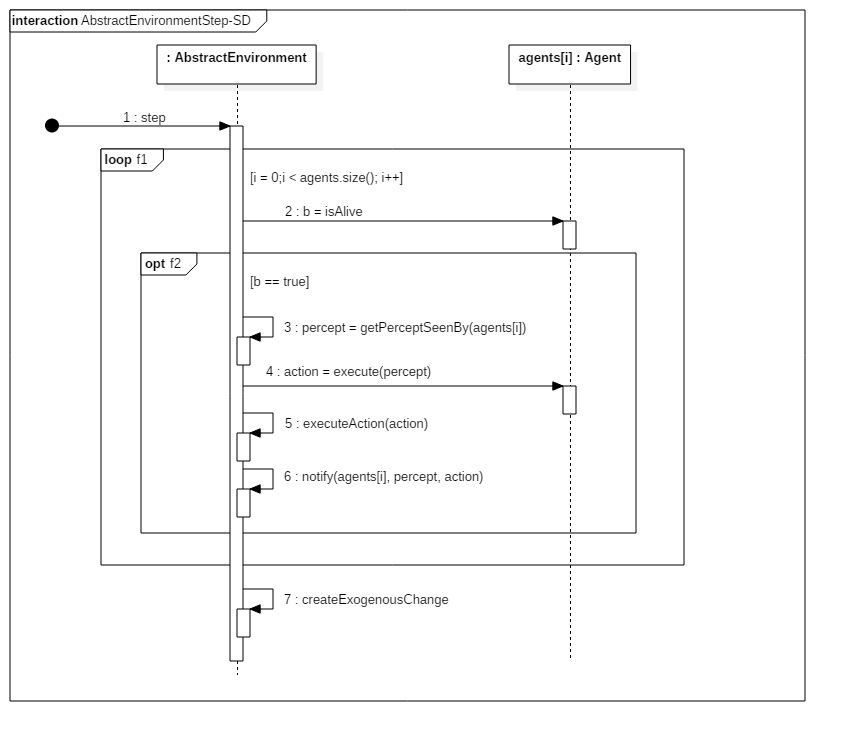
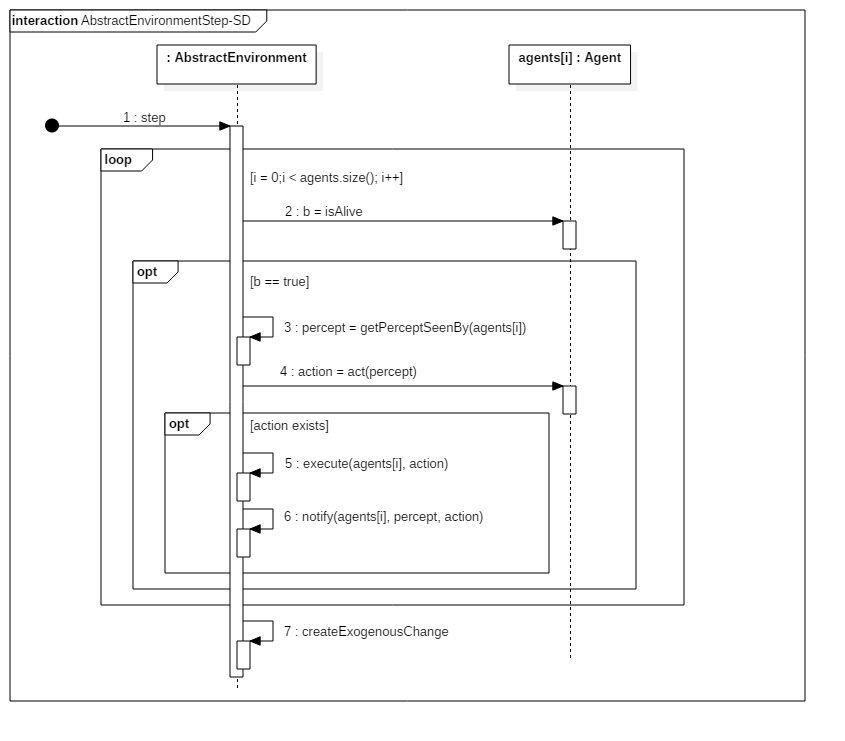
Agent framework methods renamed.

diff --git a/aima-core/src/main/java/aima/core/search/agent/NondeterministicSearchAgent.java b/aima-core/src/main/java/aima/core/search/agent/NondeterministicSearchAgent.java
@@ -2,7 +2,7 @@ package aima.core.search.agent;
 
 import aima.core.agent.Agent;
 import aima.core.agent.Notifier;
-import aima.core.agent.impl.AbstractAgent;
+import aima.core.agent.impl.SimpleAgent;
 import aima.core.search.nondeterministic.AndOrSearch;
 import aima.core.search.nondeterministic.NondeterministicProblem;
 import aima.core.search.nondeterministic.Plan;
@@ -21,7 +21,7 @@ import java.util.function.Function;
  * @author Ruediger Lunde
  * @author Andrew Brown
  */
-public class NondeterministicSearchAgent<P, S, A> extends AbstractAgent<P, A> {
+public class NondeterministicSearchAgent<P, S, A> extends SimpleAgent<P, A> {
 	/**
 	 * Maps percepts to states.
 	 */
@@ -36,18 +36,13 @@ public class NondeterministicSearchAgent<P, S, A> extends AbstractAgent<P, A> {
 		this.ptsFunction = ptsFn;
 	}
 
-	public NondeterministicSearchAgent(Function<P, S> ptsFn, Notifier notifier) {
-		this.ptsFunction = ptsFn;
-		this.notifier = notifier;
-	}
-
-	public NondeterministicSearchAgent(BiFunction<P, Agent, S> ptsFn) {
+	public NondeterministicSearchAgent(BiFunction<P, Agent<P, A>, S> ptsFn) {
 		this.ptsFunction = (percept) -> ptsFn.apply(percept, this);
 	}
 
-	public NondeterministicSearchAgent(BiFunction<P, Agent, S> ptsFn, Notifier notifier) {
-		this.ptsFunction = (percept) -> ptsFn.apply(percept, this);
+	public NondeterministicSearchAgent<P, S, A> setNotifier(Notifier notifier) {
 		this.notifier = notifier;
+		return this;
 	}
 
 	/**
@@ -86,13 +81,13 @@ public class NondeterministicSearchAgent<P, S, A> extends AbstractAgent<P, A> {
 	}
 
 	/**
-	 * Execute an action from the contingency plan.
+	 * Selects next action from the contingency plan.
 	 * 
 	 * @param percept A percept.
 	 * @return An action from the contingency plan.
 	 */
 	@Override
-	public Optional<A> execute(P percept) {
+	public Optional<A> act(P percept) {
 		S state = (S) ptsFunction.apply(percept);
 		// at goal or no plan?
 		if (problem.testGoal(state) || contingencyPlan == null)
@@ -109,9 +104,9 @@ public class NondeterministicSearchAgent<P, S, A> extends AbstractAgent<P, A> {
 		if (contingencyPlan.isActionStep(currStep))
 			return Optional.of(contingencyPlan.getAction(currStep));
 
-		// determine next sub-plan and execute it!
+		// determine next sub-plan and act it!
 		contingencyPlan = contingencyPlan.getPlan(currStep, state);
 		currStep = -1;
-		return execute(percept);
+		return act(percept);
 	}
 }

diff --git a/aima-core/src/test/java/aima/test/core/unit/environment/xyenv/XYEnvironmentTest.java b/aima-core/src/test/java/aima/test/core/unit/environment/xyenv/XYEnvironmentTest.java
@@ -9,7 +9,7 @@ import org.junit.Before;
 import org.junit.Test;
 
 import aima.core.agent.EnvironmentObject;
-import aima.core.agent.impl.AbstractAgent;
+import aima.core.agent.impl.SimpleAgent;
 import aima.core.environment.xyenv.Wall;
 import aima.core.environment.xyenv.XYEnvironment;
 import aima.core.util.datastructure.XYLocation;
@@ -22,7 +22,7 @@ import aima.test.core.unit.agent.impl.MockAgent;
 public class XYEnvironmentTest {
 	XYEnvironment env;
 
-	AbstractAgent<DynamicPercept, Action> a;
+	SimpleAgent<DynamicPercept, Action> a;
 
 	@Before
 	public void setUp() {
@@ -50,7 +50,7 @@ public class XYEnvironmentTest {
 	public void testAddObjectTwice() {
 		Assert.assertEquals(1, env.getAgents().size());
 		XYLocation loc = new XYLocation(5, 5);
-		AbstractAgent<DynamicPercept, Action> b = new MockAgent<>();
+		SimpleAgent<DynamicPercept, Action> b = new MockAgent<>();
 		env.addObjectToLocation(b, loc);
 		env.addAgent(b);
 		Assert.assertEquals(2, env.getAgents().size());
@@ -119,7 +119,7 @@ public class XYEnvironmentTest {
 		XYLocation loc = new XYLocation(5, 7);
 		env.moveObjectToAbsoluteLocation(a, loc);
 		Assert.assertEquals(1, env.getObjectsAt(loc).size());
-		AbstractAgent b = new MockAgent();
+		SimpleAgent b = new MockAgent();
 		env.addObjectToLocation(b, loc);
 		Assert.assertEquals(2, env.getObjectsAt(loc).size());
 	}
@@ -128,8 +128,8 @@ public class XYEnvironmentTest {
 	public void testGetObjectsNear() {
 		XYLocation loc = new XYLocation(5, 5);
 		env.moveObjectToAbsoluteLocation(a, loc);
-		AbstractAgent b = new MockAgent();
-		AbstractAgent c = new MockAgent();
+		SimpleAgent b = new MockAgent();
+		SimpleAgent c = new MockAgent();
 		Wall w1 = new Wall();
 
 		env.addObjectToLocation(b, new XYLocation(7, 4));

diff --git a/aima-core/src/test/java/aima/test/core/unit/agent/impl/aprog/TableDrivenAgentProgramTest.java b/aima-core/src/test/java/aima/test/core/unit/agent/impl/aprog/TableDrivenAgentProgramTest.java
@@ -1,7 +1,7 @@
 package aima.test.core.unit.agent.impl.aprog;
 
 import aima.core.agent.Action;
-import aima.core.agent.impl.AbstractAgent;
+import aima.core.agent.impl.SimpleAgent;
 import aima.core.agent.impl.DynamicAction;
 import aima.core.agent.impl.DynamicPercept;
 import aima.core.agent.impl.aprog.TableDrivenAgentProgram;
@@ -23,7 +23,7 @@ public class TableDrivenAgentProgramTest {
 	private static final Action ACTION_2 = new DynamicAction("action2");
 	private static final Action ACTION_3 = new DynamicAction("action3");
 
-	private AbstractAgent<DynamicPercept, Action> agent;
+	private SimpleAgent<DynamicPercept, Action> agent;
 
 	@Before
 	public void setUp() {
@@ -45,19 +45,19 @@ public class TableDrivenAgentProgramTest {
 	@Test
 	public void testExistingSequences() {
 		Assert.assertEquals(Optional.of(ACTION_1),
-				agent.execute(new DynamicPercept("key1", "value1")));
+				agent.act(new DynamicPercept("key1", "value1")));
 		Assert.assertEquals(Optional.of(ACTION_2),
-				agent.execute(new DynamicPercept("key1", "value2")));
+				agent.act(new DynamicPercept("key1", "value2")));
 		Assert.assertEquals(Optional.of(ACTION_3),
-				agent.execute(new DynamicPercept("key1", "value3")));
+				agent.act(new DynamicPercept("key1", "value3")));
 	}
 
 	@Test
 	public void testNonExistingSequence() {
 		Assert.assertEquals(Optional.of(ACTION_1),
-				agent.execute(new DynamicPercept("key1", "value1")));
+				agent.act(new DynamicPercept("key1", "value1")));
 		Assert.assertEquals(Optional.empty(),
-				agent.execute(new DynamicPercept("key1", "value3")));
+				agent.act(new DynamicPercept("key1", "value3")));
 	}
 
 	private static List<DynamicPercept> createPerceptSequence(DynamicPercept... percepts) {

diff --git a/aima-core/src/main/java/aima/core/agent/impl/AbstractEnvironment.java b/aima-core/src/main/java/aima/core/agent/impl/AbstractEnvironment.java
@@ -62,7 +62,7 @@ public abstract class AbstractEnvironment<P, A> implements Environment<P, A>,
 	/**
 	 * Central template method for controlling agent simulation. The concrete
 	 * behavior is determined by the primitive operations
-	 * {@link #getPerceptSeenBy(Agent)}, {@link #executeAction(Agent, Object)},
+	 * {@link #getPerceptSeenBy(Agent)}, {@link #execute(Agent, Object)},
 	 * and {@link #createExogenousChange()}.
 	 */
 	@Override
@@ -70,9 +70,9 @@ public abstract class AbstractEnvironment<P, A> implements Environment<P, A>,
 		for (Agent<? super P, ? extends A> agent : agents) {
 			if (agent.isAlive()) {
 				P percept = getPerceptSeenBy(agent);
-				Optional<? extends A> anAction = agent.execute(percept);
+				Optional<? extends A> anAction = agent.act(percept);
 				if (anAction.isPresent()) {
-					executeAction(agent, anAction.get());
+					execute(agent, anAction.get());
 					notify(agent, percept, anAction.get());
 				} else {
 					executeNoOp(agent);
@@ -93,7 +93,7 @@ public abstract class AbstractEnvironment<P, A> implements Environment<P, A>,
 	//
 	// Primitive operations to be implemented by subclasses:
 
-	public abstract void executeAction(Agent<?, ?> agent, A action);
+	public abstract void execute(Agent<?, ?> agent, A action);
 
 	public abstract P getPerceptSeenBy(Agent<?, ?> agent);
 

diff --git a/aima-gui/src/main/java/aima/gui/fx/applications/agent/VacuumAgentApp.java b/aima-gui/src/main/java/aima/gui/fx/applications/agent/VacuumAgentApp.java
@@ -1,7 +1,7 @@
 package aima.gui.fx.applications.agent;
 
 import aima.core.agent.Action;
-import aima.core.agent.impl.AbstractAgent;
+import aima.core.agent.impl.SimpleAgent;
 import aima.core.agent.impl.DynamicPercept;
 import aima.core.environment.vacuum.*;
 import aima.core.search.agent.NondeterministicSearchAgent;
@@ -38,7 +38,7 @@ public class VacuumAgentApp extends IntegrableApplication {
     private TaskExecutionPaneCtrl taskPaneCtrl;
     private SimpleEnvironmentViewCtrl envViewCtrl;
     protected VacuumEnvironment env = null;
-    protected AbstractAgent<DynamicPercept, Action> agent = null;
+    protected SimpleAgent<DynamicPercept, Action> agent = null;
 
     @Override
     public String getTitle() {
@@ -104,7 +104,7 @@ public class VacuumAgentApp extends IntegrableApplication {
                 agent = new ModelBasedReflexVacuumAgent();
                 break;
             case 4:
-                agent = new NondeterministicSearchAgent<>(VacuumWorldFunctions::getState, env);
+                agent = new NondeterministicSearchAgent<>(VacuumWorldFunctions::getState); //.setNotifier(env);
                 break;
         }
         if (env != null && agent != null) {

diff --git a/aima-gui/src/main/java/aima/gui/swing/applications/agent/VacuumController.java b/aima-gui/src/main/java/aima/gui/swing/applications/agent/VacuumController.java
@@ -1,7 +1,7 @@
 package aima.gui.swing.applications.agent;
 
 import aima.core.agent.Action;
-import aima.core.agent.impl.AbstractAgent;
+import aima.core.agent.impl.SimpleAgent;
 import aima.core.agent.impl.DynamicPercept;
 import aima.core.environment.vacuum.*;
 import aima.core.search.agent.NondeterministicSearchAgent;
@@ -19,7 +19,7 @@ import aima.gui.swing.framework.SimulationThread;
 public class VacuumController extends AgentAppController<DynamicPercept, Action> {
 	
 	protected VacuumEnvironment env = null;
-	protected AbstractAgent<DynamicPercept, Action> agent = null;
+	protected SimpleAgent<DynamicPercept, Action> agent = null;
 	protected boolean isPrepared = false;
 	
 	/** Prepares next simulation if that makes sense. */
@@ -61,7 +61,8 @@ public class VacuumController extends AgentAppController<DynamicPercept, Action>
 			agent = new ModelBasedReflexVacuumAgent();
 			break;
 		case 4:
-			agent = new NondeterministicSearchAgent<>(VacuumWorldFunctions::getState, env);
+			agent = new NondeterministicSearchAgent<DynamicPercept, VacuumEnvironmentState, Action>
+					(VacuumWorldFunctions::getState).setNotifier(env);
 			break;
 		}
 		if (env != null && agent != null) {

diff --git a/aima-core/src/main/java/aima/core/search/online/OnlineDFSAgent.java b/aima-core/src/main/java/aima/core/search/online/OnlineDFSAgent.java
@@ -4,7 +4,7 @@ import java.util.*;
 import java.util.function.Function;
 
 import aima.core.agent.Action;
-import aima.core.agent.impl.AbstractAgent;
+import aima.core.agent.impl.SimpleAgent;
 import aima.core.search.framework.problem.OnlineSearchProblem;
 import aima.core.util.datastructure.Pair;
 import aima.core.util.datastructure.TwoKeyHashMap;
@@ -46,7 +46,7 @@ import aima.core.util.datastructure.TwoKeyHashMap;
  * @author Ruediger Lunde
  * 
  */
-public class OnlineDFSAgent<P, S, A extends Action> extends AbstractAgent<P, A> {
+public class OnlineDFSAgent<P, S, A extends Action> extends SimpleAgent<P, A> {
 
 	private OnlineSearchProblem<S, A> problem;
 	private Function<P, S> ptsFn;
@@ -119,7 +119,7 @@ public class OnlineDFSAgent<P, S, A extends Action> extends AbstractAgent<P, A> 
 	// function ONLINE-DFS-AGENT(s') returns an action
 	// inputs: s', a percept that identifies the current state
 	@Override
-	public Optional<A> execute(P psPrimed) {
+	public Optional<A> act(P psPrimed) {
 		S sPrimed = ptsFn.apply(psPrimed);
 		// if GOAL-TEST(s') then return stop
 		if (problem.testGoal(sPrimed)) {

diff --git a/aima-core/src/main/java/aima/core/environment/vacuum/ReflexVacuumAgent.java b/aima-core/src/main/java/aima/core/environment/vacuum/ReflexVacuumAgent.java
@@ -2,8 +2,7 @@ package aima.core.environment.vacuum;
 
 import aima.core.agent.Action;
 import aima.core.agent.AgentProgram;
-import aima.core.agent.Percept;
-import aima.core.agent.impl.AbstractAgent;
+import aima.core.agent.impl.SimpleAgent;
 import aima.core.agent.impl.DynamicPercept;
 
 import java.util.Objects;
@@ -29,13 +28,13 @@ import java.util.Optional;
  * @author Ruediger Lunde
  * 
  */
-public class ReflexVacuumAgent extends AbstractAgent<DynamicPercept, Action> {
+public class ReflexVacuumAgent extends SimpleAgent<DynamicPercept, Action> {
 
 	public ReflexVacuumAgent() {
 		super(new AgentProgram<DynamicPercept, Action>() {
-			// function REFLEX-VACUUM-AGENT([location, status]) returns an
-			// action
-			public Optional<Action> execute(DynamicPercept percept) {
+			// function REFLEX-VACUUM-AGENT([location, status]) returns an action
+			@Override
+			public Optional<Action> apply(DynamicPercept percept) {
 				Action action = null;
 				// if status = Dirty then return Suck
 				if (VacuumEnvironment.LocationState.Dirty == percept.getAttribute(AttNames.CURRENT_STATE)) {

diff --git a/aima-core/src/main/java/aima/core/environment/wumpusworld/HybridWumpusAgent.java b/aima-core/src/main/java/aima/core/environment/wumpusworld/HybridWumpusAgent.java
@@ -1,7 +1,7 @@
 package aima.core.environment.wumpusworld;
 
 import aima.core.agent.Notifier;
-import aima.core.agent.impl.AbstractAgent;
+import aima.core.agent.impl.SimpleAgent;
 import aima.core.logic.propositional.inference.DPLL;
 import aima.core.logic.propositional.inference.DPLLSatisfiable;
 import aima.core.search.framework.Metrics;
@@ -69,7 +69,7 @@ import java.util.*;
  * @author Ciaran O'Reilly
  * @author Ruediger Lunde
  */
-public class HybridWumpusAgent extends AbstractAgent<WumpusPercept, WumpusAction> {
+public class HybridWumpusAgent extends SimpleAgent<WumpusPercept, WumpusAction> {
 
 	// persistent: KB, a knowledge base, initially the atemporal
 	// "wumpus physics"
@@ -118,7 +118,7 @@ public class HybridWumpusAgent extends AbstractAgent<WumpusPercept, WumpusAction
 	 * @return an action the agent should take.
 	 */
 	@Override
-	public Optional<WumpusAction> execute(WumpusPercept percept) {
+	public Optional<WumpusAction> act(WumpusPercept percept) {
 
 		// TELL(KB, MAKE-PERCEPT-SENTENCE(percept, t))
 		kb.makePerceptSentence(percept, t);

diff --git a/aima-core/src/main/java/aima/core/logic/propositional/agent/KBAgent.java b/aima-core/src/main/java/aima/core/logic/propositional/agent/KBAgent.java
@@ -2,7 +2,7 @@ package aima.core.logic.propositional.agent;
 
 import aima.core.agent.Action;
 import aima.core.agent.Percept;
-import aima.core.agent.impl.AbstractAgent;
+import aima.core.agent.impl.SimpleAgent;
 import aima.core.logic.propositional.kb.KnowledgeBase;
 import aima.core.logic.propositional.parsing.ast.Sentence;
 
@@ -32,7 +32,7 @@ import java.util.Optional;
  * 
  * @author Ciaran O'Reilly
  */
-public abstract class KBAgent extends AbstractAgent<Percept, Action> {
+public abstract class KBAgent extends SimpleAgent<Percept, Action> {
 	// persistent: KB, a knowledge base
 	protected KnowledgeBase kb;
 	// t, a counter, initially 0, indicating time
@@ -44,7 +44,7 @@ public abstract class KBAgent extends AbstractAgent<Percept, Action> {
 
 	// function KB-AGENT(percept) returns an action
 	@Override
-	public Optional<Action> execute(Percept percept) {
+	public Optional<Action> act(Percept percept) {
 		// TELL(KB, MAKE-PERCEPT-SENTENCE(percept, t))
 		kb.tell(makePerceptSentence(percept, t));
 		// action &lt;- ASK(KB, MAKE-ACTION-QUERY(t))

diff --git a/aima-core/src/main/java/aima/core/search/online/LRTAStarAgent.java b/aima-core/src/main/java/aima/core/search/online/LRTAStarAgent.java
@@ -5,7 +5,7 @@ import java.util.Optional;
 import java.util.function.Function;
 import java.util.function.ToDoubleFunction;
 
-import aima.core.agent.impl.AbstractAgent;
+import aima.core.agent.impl.SimpleAgent;
 import aima.core.search.framework.problem.OnlineSearchProblem;
 import aima.core.util.datastructure.TwoKeyHashMap;
 
@@ -51,7 +51,7 @@ import aima.core.util.datastructure.TwoKeyHashMap;
  * @author Mike Stampone
  * @author Ruediger Lunde
  */
-public class LRTAStarAgent<P, S, A> extends AbstractAgent<P, A> {
+public class LRTAStarAgent<P, S, A> extends SimpleAgent<P, A> {
 
 	private OnlineSearchProblem<S, A> problem;
 	private Function<P, S> ptsFn;
@@ -146,7 +146,7 @@ public class LRTAStarAgent<P, S, A> extends AbstractAgent<P, A> {
 	// function LRTA*-AGENT(s') returns an action
 	// inputs: s', a percept that identifies the current state
 	@Override
-	public Optional<A> execute(P psPrimed) {
+	public Optional<A> act(P psPrimed) {
 		S sPrimed = ptsFn.apply(psPrimed);
 		// if GOAL-TEST(s') then return stop
 		if (problem.testGoal(sPrimed)) {

diff --git a/aima-gui/src/main/java/aima/gui/fx/framework/TaskExecutionPaneCtrl.java b/aima-gui/src/main/java/aima/gui/fx/framework/TaskExecutionPaneCtrl.java
@@ -16,7 +16,7 @@ import java.util.List;
 /**
  * Controller class for task execution panes. It is responsible for maintaining the
  * current parameter settings, the task execution state, the current execution
- * thread, and for handling events (parameter change events and execute button events).
+ * thread, and for handling events (parameter change events and act button events).
  * If not otherwise stated, methods must be called from the FX Application Thread.
  * 
  * @author Ruediger Lunde
@@ -56,7 +56,7 @@ public class TaskExecutionPaneCtrl {
 			if (!combo.getId().equals(PARAM_EXEC_SPEED))
 				combo.getSelectionModel().selectedItemProperty().addListener(listener);
 		executeBtn.setOnAction(ev -> onExecuteButtonAction());
-		// mouse-left on execute button toggles execution speed between StepMode and VeryFast
+		// mouse-left on act button toggles execution speed between StepMode and VeryFast
 		executeBtn.setOnMouseClicked(ev -> {
 			if (ev.getButton() == MouseButton.SECONDARY) {
 				if (getParamAsInt(PARAM_EXEC_SPEED) == Integer.MAX_VALUE)
